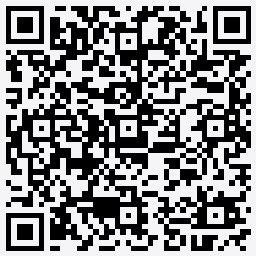
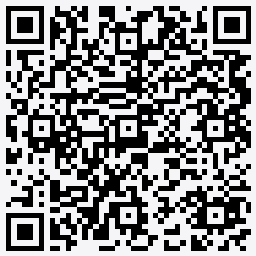
GITBOOK-108: No subject

diff --git a/readme/donations-and-sponsors.md b/readme/donations-and-sponsors.md
@@ -64,15 +64,13 @@ Crypto transfers are irreversible. Double-check the address before sending.
 
 {% columns %}
 {% column width="50%" %}
-_**THIS IS BEING FIXED, STOPPED WORKING.**_
-
 #### BTCPay
 
-* [![BTCPay Crowdfund](https://img.shields.io/badge/BTCPay-Crowdfund-51B13E?style=for-the-badge\&logo=btcpayserver\&logoColor=white)](https://btcpay.lazymedia.media/apps/haLjehHWgZ5LZkHAT3Hod1kghkT/crowdfund)
-* [![BTCPay Store](https://img.shields.io/badge/BTCPay-Store-51B13E?style=for-the-badge\&logo=btcpayserver\&logoColor=white)](https://btcpay.lazymedia.media/apps/ZrsrWzMXoFqGB8EwxYvB6QKEom4/pos)
-* [![BTCPay Contact Form](https://img.shields.io/badge/BTCPay-Contact_Form-51B13E?style=for-the-badge\&logo=btcpayserver\&logoColor=white)](https://btcpay.lazymedia.media/forms/d35c9058-6bf2-4ec2-9965-8b65f75c71e8)
+* [![BTCPay Crowdfund](https://img.shields.io/badge/BTCPay-Crowdfund-51B13E?style=for-the-badge\&logo=btcpayserver\&logoColor=white)](https://btcpay.lazymedia.media/apps/2WvVG6qpeyeqezbFrNhP5LvyJ4vj/crowdfund)
+* [![BTCPay Store](https://img.shields.io/badge/BTCPay-Store-51B13E?style=for-the-badge\&logo=btcpayserver\&logoColor=white)](https://btcpay.lazymedia.media/apps/3ex1xZfqP6HCMaGgk2CjVQNrhhx/pos)
+* [![BTCPay Contact Form](https://img.shields.io/badge/BTCPay-Contact_Form-51B13E?style=for-the-badge\&logo=btcpayserver\&logoColor=white)](https://btcpay.lazymedia.media/forms/53ed4ed4-2906-4d29-9770-254215fd149f)
 
-Scan this QR code to open the BTCPay donation flow:
+Scan this QR code to open the BTCPay donation flow: _(BTC Network Resyncing)_
 
 <div data-with-frame="true"><img src="../.gitbook/assets/BTCPay.png" alt="Bitcoin donation QR (BTC Pay Link)"></div>
 {% endcolumn %}
